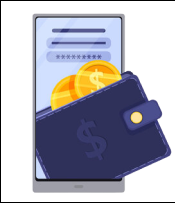
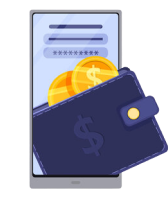
Balance info part added

Changed region(s): [[0.0, 0.0, 1.0, 1.0], [0.7143, 0.5482, 0.8333, 0.6396], [0.6845, 0.5482, 0.7143, 0.5787]]

diff --git a/components/AccountBalance.js b/components/AccountBalance.js
@@ -5,41 +5,53 @@ const AccountBalance = () => {
   const [balance, setBalance] = useState(1000);
 
   return (
-    <View>
+    <>
+      <View style={styles.container}>
         <View style={styles.balanceValueComponent}>
-            <Text style={styles.balanceText}>Total balance</Text>
-            <Text>{balance}</Text>
+          <Text style={styles.balanceText}>Total balance</Text>
+            <Text style={styles.balanceValueText}>BAM {balance}</Text>
+          </View>
+        <View>
+          <Image source={require('../assets/images/WalletPicture.png')} style={styles.picture}/>
         </View>
-      <Image source={require('../assets/images/WalletPicture.png')} style={styles.picture}/>
-    </View>
+      </View>
+    </>
   );
 };
 
 const styles = StyleSheet.create({
     container: {
-        
+        flexDirection: 'row',
+        justifyContent: 'space-between',
+        alignItems: 'center',
+        padding: 20,
+        justifyContent: 'space-around',
+        marginBottom: 450
     },
     picture: {
-      marginTop: -50,
-      marginLeft: 110,
-      marginRight: -130,
-      marginBottom: 400
 
     },
     balanceText: {
         color: 'white',
         fontFamily: 'Georgia',
-        fontSize: 32
-      
-
+        fontSize: 28,
+        fontWeight: 'bold',
+        padding: 5
+    },
+    balanceValueText: {
+      color: 'white',
+      fontFamily: 'Georgia',
+      fontSize: 20,
+      fontWeight: 'normal',
+      padding: 5
     },
     balanceValueComponent: {
-      borderWidth: 2,
       borderColor: 'black',
-      padding: 16,
+      padding: 10,
       borderRadius: 50,
       backgroundColor: '#312e66',
-      padding: 50
+      padding: 30,
+    
     }
 
   });

diff --git a/screens/HomeScreen.js b/screens/HomeScreen.js
@@ -1,0 +1,60 @@
+import React, { useState } from 'react';
+import { Text, View, Image, StyleSheet} from 'react-native';
+
+const HomeScreen = () => {
+  const [balance, setBalance] = useState(1000);
+
+  return (
+    <>
+      <View style={styles.container}>
+        <View style={styles.balanceValueComponent}>
+          <Text style={styles.balanceText}>Total balance</Text>
+            <Text style={styles.balanceValueText}>BAM {balance}</Text>
+          </View>
+        <View>
+          <Image source={require('../assets/images/WalletPicture.png')} style={styles.picture}/>
+        </View>
+      </View>
+    </>
+  );
+};
+
+const styles = StyleSheet.create({
+    container: {
+        flexDirection: 'row',
+        justifyContent: 'space-between',
+        alignItems: 'center',
+        padding: 20,
+        justifyContent: 'space-around',
+        marginBottom: 450
+    },
+    picture: {
+
+    },
+    balanceText: {
+        color: 'white',
+        fontFamily: 'Georgia',
+        fontSize: 28,
+        fontWeight: 'bold',
+        padding: 5
+    },
+    balanceValueText: {
+      color: 'white',
+      fontFamily: 'Georgia',
+      fontSize: 20,
+      fontWeight: 'normal',
+      padding: 5
+    },
+    balanceValueComponent: {
+      borderColor: 'black',
+      padding: 10,
+      borderRadius: 50,
+      backgroundColor: '#312e66',
+      padding: 30,
+    
+    }
+
+  });
+  
+
+export default HomeScreen;

diff --git a/App.js b/App.js
@@ -1,11 +1,12 @@
 import { StatusBar } from 'expo-status-bar';
 import { StyleSheet, Text, View } from 'react-native';
 import AccountBalance from './components/AccountBalance';
+import HomeScreen from './screens/HomeScreen';
 
 export default function App() {
   return (
     <View style={styles.container}>
-        <AccountBalance/>
+        <HomeScreen/>
     </View>
   );
 }
